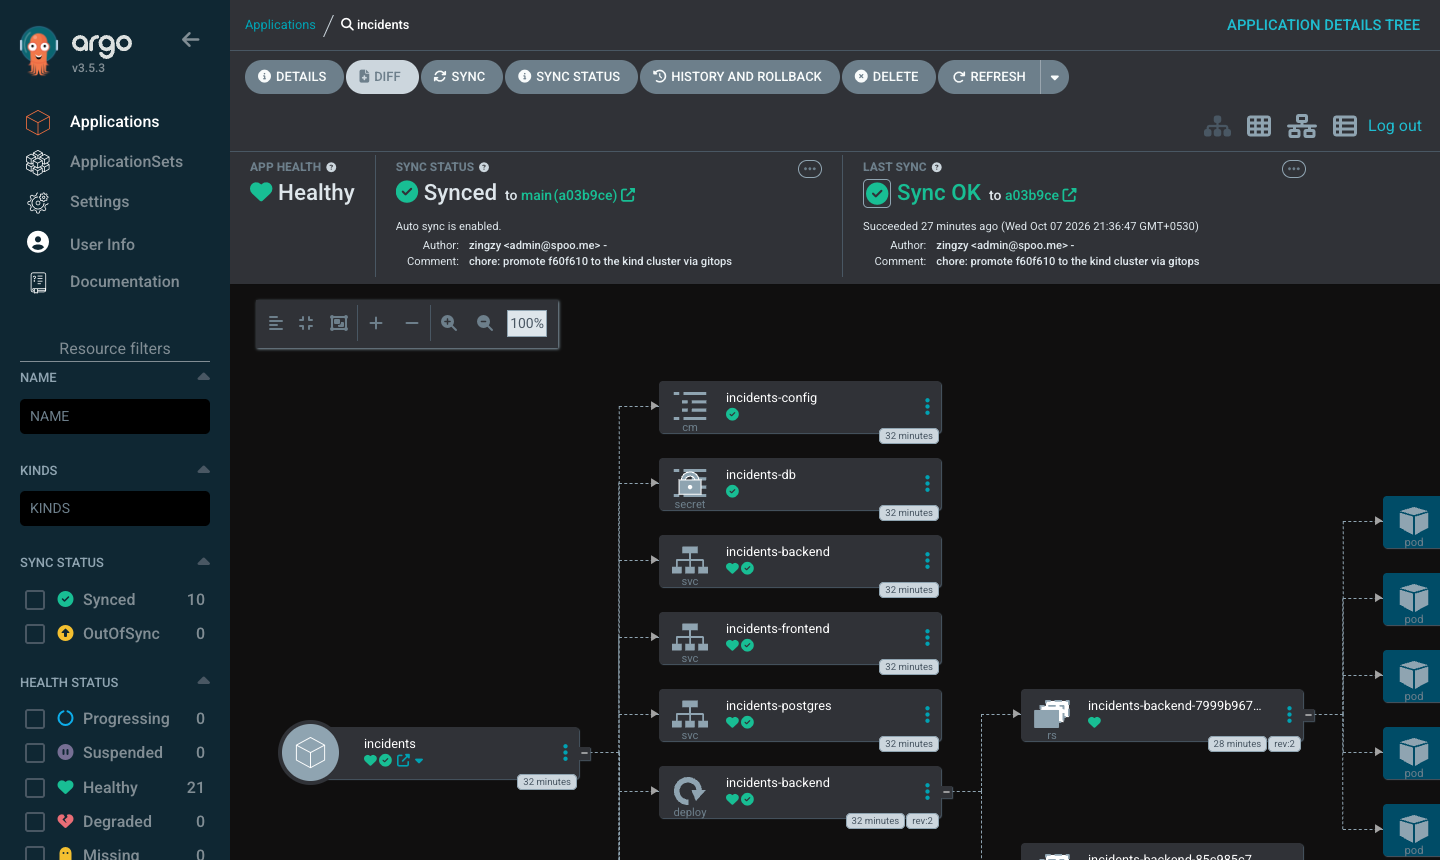
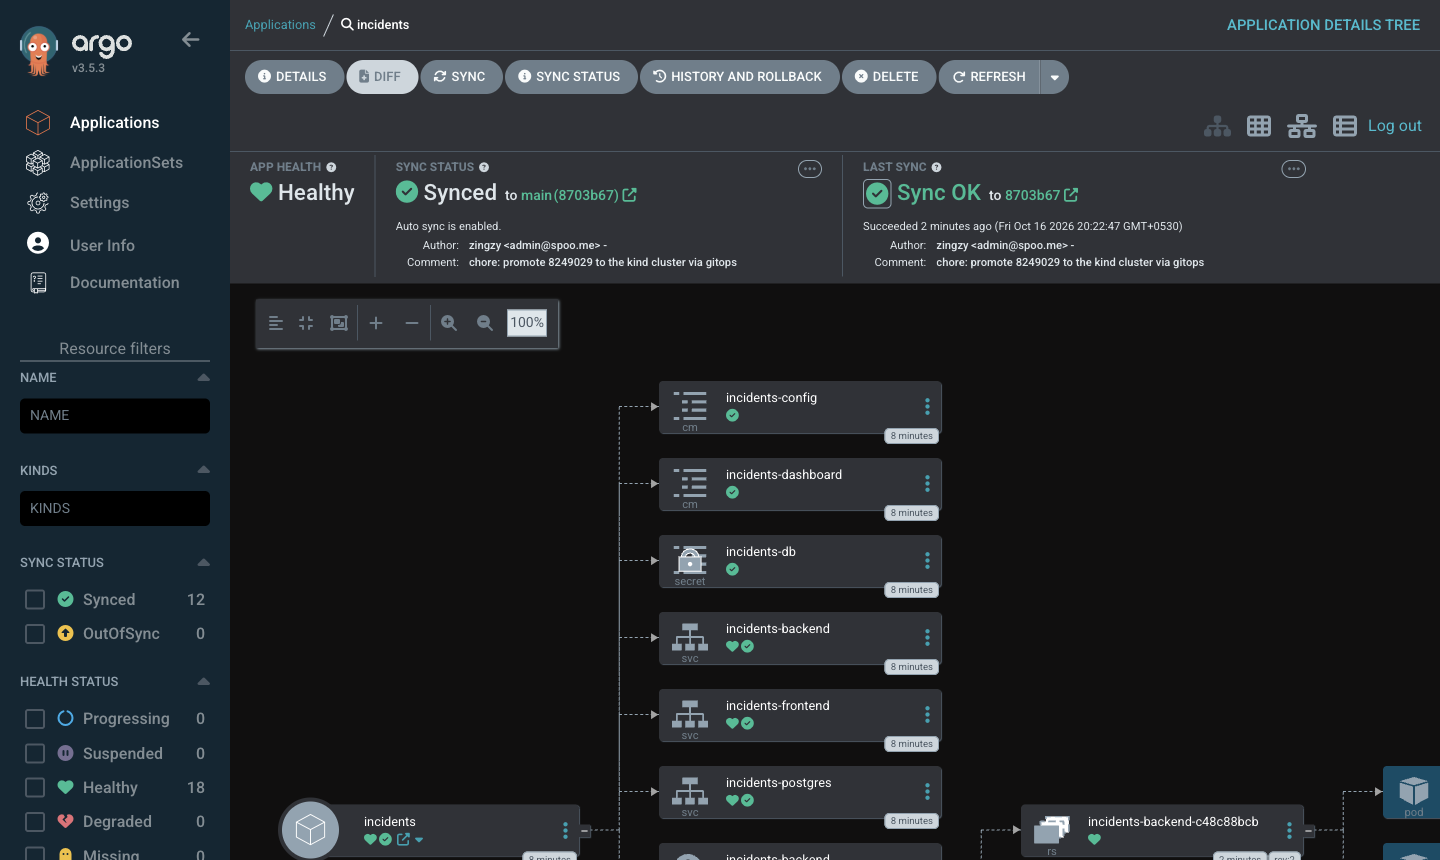
docs: point ci and gitops sections at the rewritten history
The CI run, the GitOps promotion log and their screenshots quoted
commits from before the history was split. They now show run
38911274910 on 8249029 and the promotion in 8703b67.

diff --git a/README.md b/README.md
@@ -248,7 +248,7 @@ The apply ran from 21:35:04 to 21:45:34, mostly the EKS control plane.
 ```bash
 aws eks update-kubeconfig --region ap-south-1 --name incident-tracker-eks --kubeconfig ./eks.kubeconfig
 kubectl get nodes -o wide
-kubectl create deployment incidents-frontend --image=ghcr.io/zingzy/incident-tracker-frontend:f60f610a12d52e55879b917079cf880f83c816fd --port=8080
+kubectl create deployment incidents-frontend --image=ghcr.io/zingzy/incident-tracker-frontend:<commit-sha> --port=8080
 kubectl set env deployment/incidents-frontend BACKEND_HOST=kubernetes.default.svc.cluster.local
 kubectl get pods -o wide
 ```
@@ -335,16 +335,16 @@ the ingress-nginx Deployment and then retries a server-side dry run of a
 throwaway Ingress until the admission webhook accepts it, because a Ready
 controller pod can still refuse webhook calls for a moment.
 
-Run [37644792039](https://github.com/Zingzy/incident-tracker/actions/runs/37644792039)
-on `f60f610` passed all 10 jobs on the first push:
+Run [38911274910](https://github.com/Zingzy/incident-tracker/actions/runs/38911274910)
+on `8249029` passed all 10 jobs:
 
 ```
-pushed ghcr.io/zingzy/incident-tracker-backend@sha256:35f21f0716f9329457ba2a5789237e1e3c7254114ea773917845d7f8bdc7533e
-pushed ghcr.io/zingzy/incident-tracker-frontend@sha256:1130d0635dd4e3af9056f1076a26756fb0a1474898b6aa3470c5a4e8b922aea8
-{"site_title":"Incident Tracker","environment":"ci","version":"f60f610a12d52e55879b917079cf880f83c816fd"}
+pushed ghcr.io/zingzy/incident-tracker-backend@sha256:a3446c49d827f8ed75b401a21136eac6cf78fb6d5b7bf5996cde528bde34b54d
+pushed ghcr.io/zingzy/incident-tracker-frontend@sha256:b5993e6dd53a7c5cf54cbb364e904fe6e25ef672c28bd3b7950b325821533443
+{"site_title":"Incident Tracker","environment":"ci","version":"82490290033c676d9d492f9c227429dfbaf532fa"}
 true
 true
-{"open":0,"open_by_severity":{"SEV1":0,"SEV2":0,"SEV3":0,"SEV4":0},"resolved":1,"mean_time_to_resolve_seconds":0.025653}
+{"open":0,"open_by_severity":{"SEV1":0,"SEV2":0,"SEV3":0,"SEV4":0},"resolved":1,"mean_time_to_resolve_seconds":0.042428}
 <title>Incident Tracker</title>
 ```
 
@@ -445,24 +445,27 @@ helm upgrade --install argocd ./argo-cd-10.9.6.tgz -n argocd --create-namespace 
 kubectl apply -f gitops/application.yaml
 ```
 
-The promotion: commit `a03b9ce` (21:33:58) changed only the image tags in
-`values.yaml` from `local` to `f60f610...`, the SHA CI had built, scanned and
+The promotion: commit `8703b67` (pushed 20:20:58) changed only the image tags in
+`values.yaml` from `local` to `82490290...`, the SHA CI had built, scanned and
 pushed. No kubectl. Every 10 seconds:
 
 ```
-21:35:21 argo=f60f610 Synced/Healthy api={"site_title":"Incident Tracker","environment":"kind-gitops","version":"local"}
-21:35:31 argo=a03b9ce Synced/Progressing api={"site_title":"Incident Tracker","environment":"kind-gitops","version":"local"}
+20:21:02 argo=dffd3e9 Synced/Healthy api={"site_title":"Incident Tracker","environment":"kind-gitops","version":"local"}
 ...
-21:36:13 argo=a03b9ce Synced/Progressing api={"site_title":"Incident Tracker","environment":"kind-gitops","version":"f60f610a12d52e55879b917079cf880f83c816fd"}
-21:36:24 argo=a03b9ce Synced/Progressing api={"site_title":"Incident Tracker","environment":"kind-gitops","version":"local"}
-21:36:34 argo=a03b9ce Synced/Healthy api={"site_title":"Incident Tracker","environment":"kind-gitops","version":"f60f610a12d52e55879b917079cf880f83c816fd"}
+20:22:43 argo=dffd3e9 Synced/Healthy api={"site_title":"Incident Tracker","environment":"kind-gitops","version":"local"}
+20:22:53 argo=8703b67 Synced/Progressing api={"site_title":"Incident Tracker","environment":"kind-gitops","version":"local"}
+...
+20:23:24 argo=8703b67 Synced/Progressing api={"site_title":"Incident Tracker","environment":"kind-gitops","version":"82490290033c676d9d492f9c227429dfbaf532fa"}
+20:23:34 argo=8703b67 Synced/Degraded api={"site_title":"Incident Tracker","environment":"kind-gitops","version":"82490290033c676d9d492f9c227429dfbaf532fa"}
+20:23:44 argo=8703b67 Synced/Degraded api={"site_title":"Incident Tracker","environment":"kind-gitops","version":"82490290033c676d9d492f9c227429dfbaf532fa"}
+20:23:54 argo=8703b67 Synced/Healthy api={"site_title":"Incident Tracker","environment":"kind-gitops","version":"82490290033c676d9d492f9c227429dfbaf532fa"}
 ```
 
-Argo CD picked the commit up about 90 seconds after it was made. During the rolling update
-the answers flip between old and new pods, and from 21:36:34 every pod runs the
-new build.
+Argo CD picked the commit up about two minutes after the push. For 20 seconds
+the app showed `Degraded` while the new pods started, and from 20:23:54 every
+pod runs the new build.
 
-![Argo CD Synced and Healthy at a03b9ce](docs/screenshots/09-argocd-synced.png)
+![Argo CD Synced and Healthy at 8703b67](docs/screenshots/09-argocd-synced.png)
 
 Self heal: I scaled the frontend to 1 by hand, and Argo CD put it back to 2.
 
